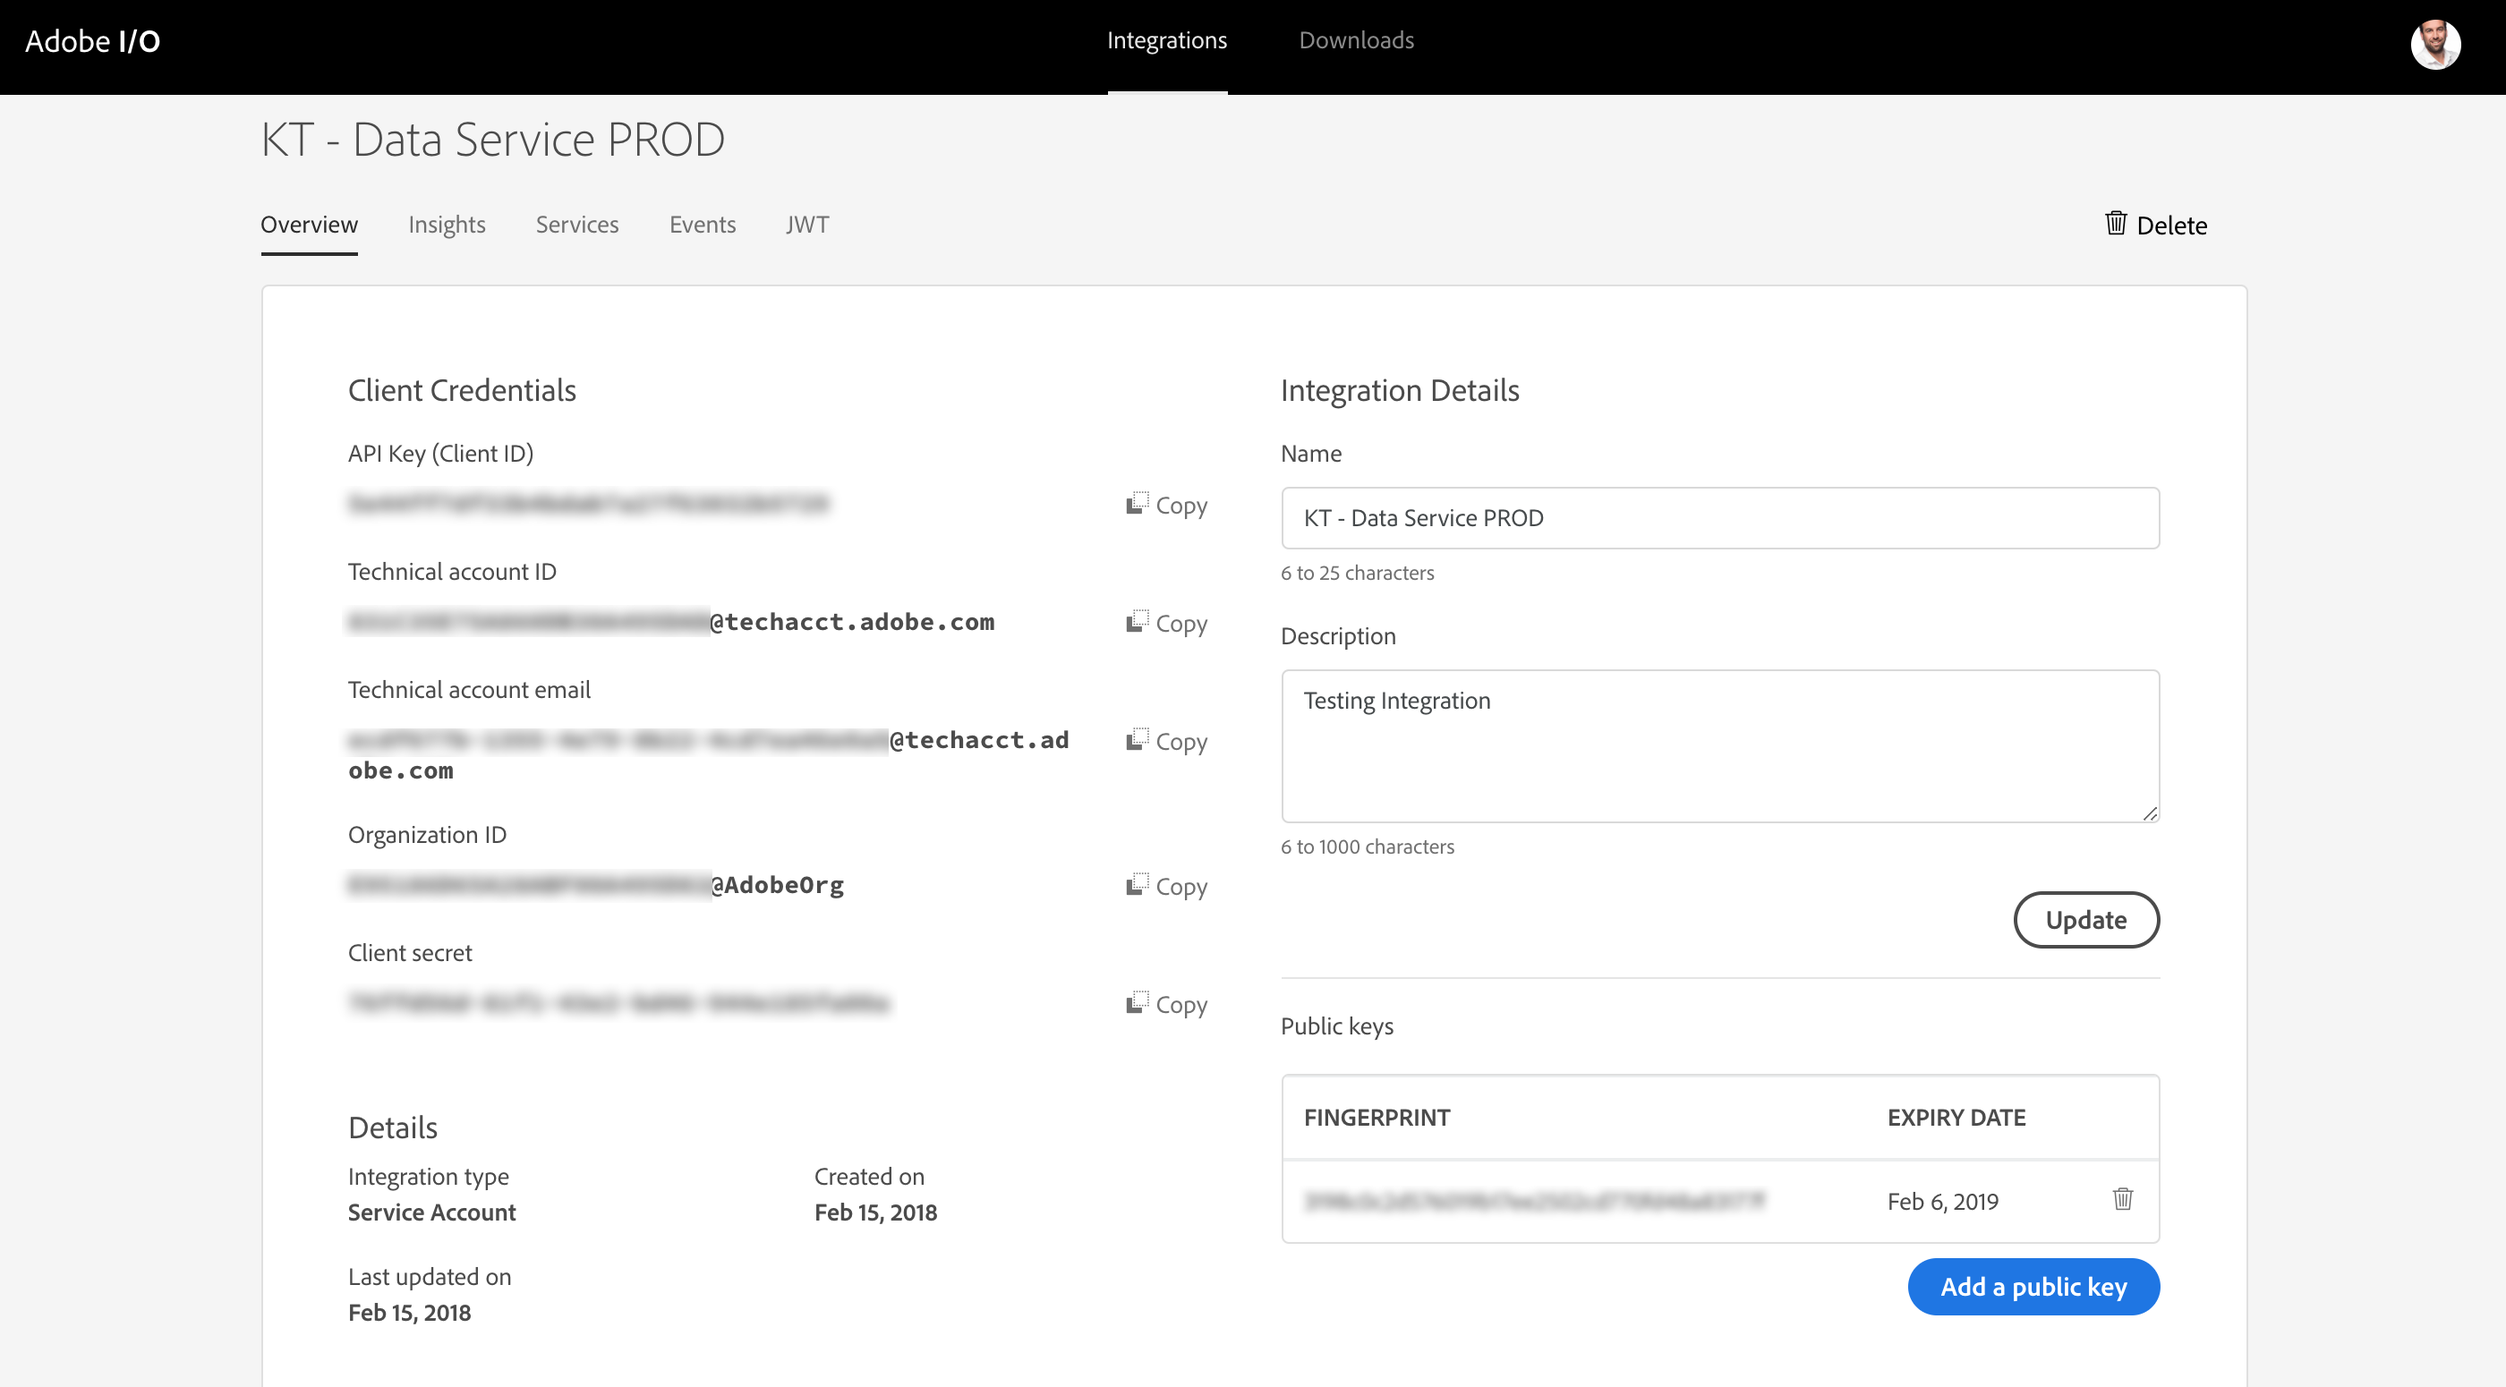
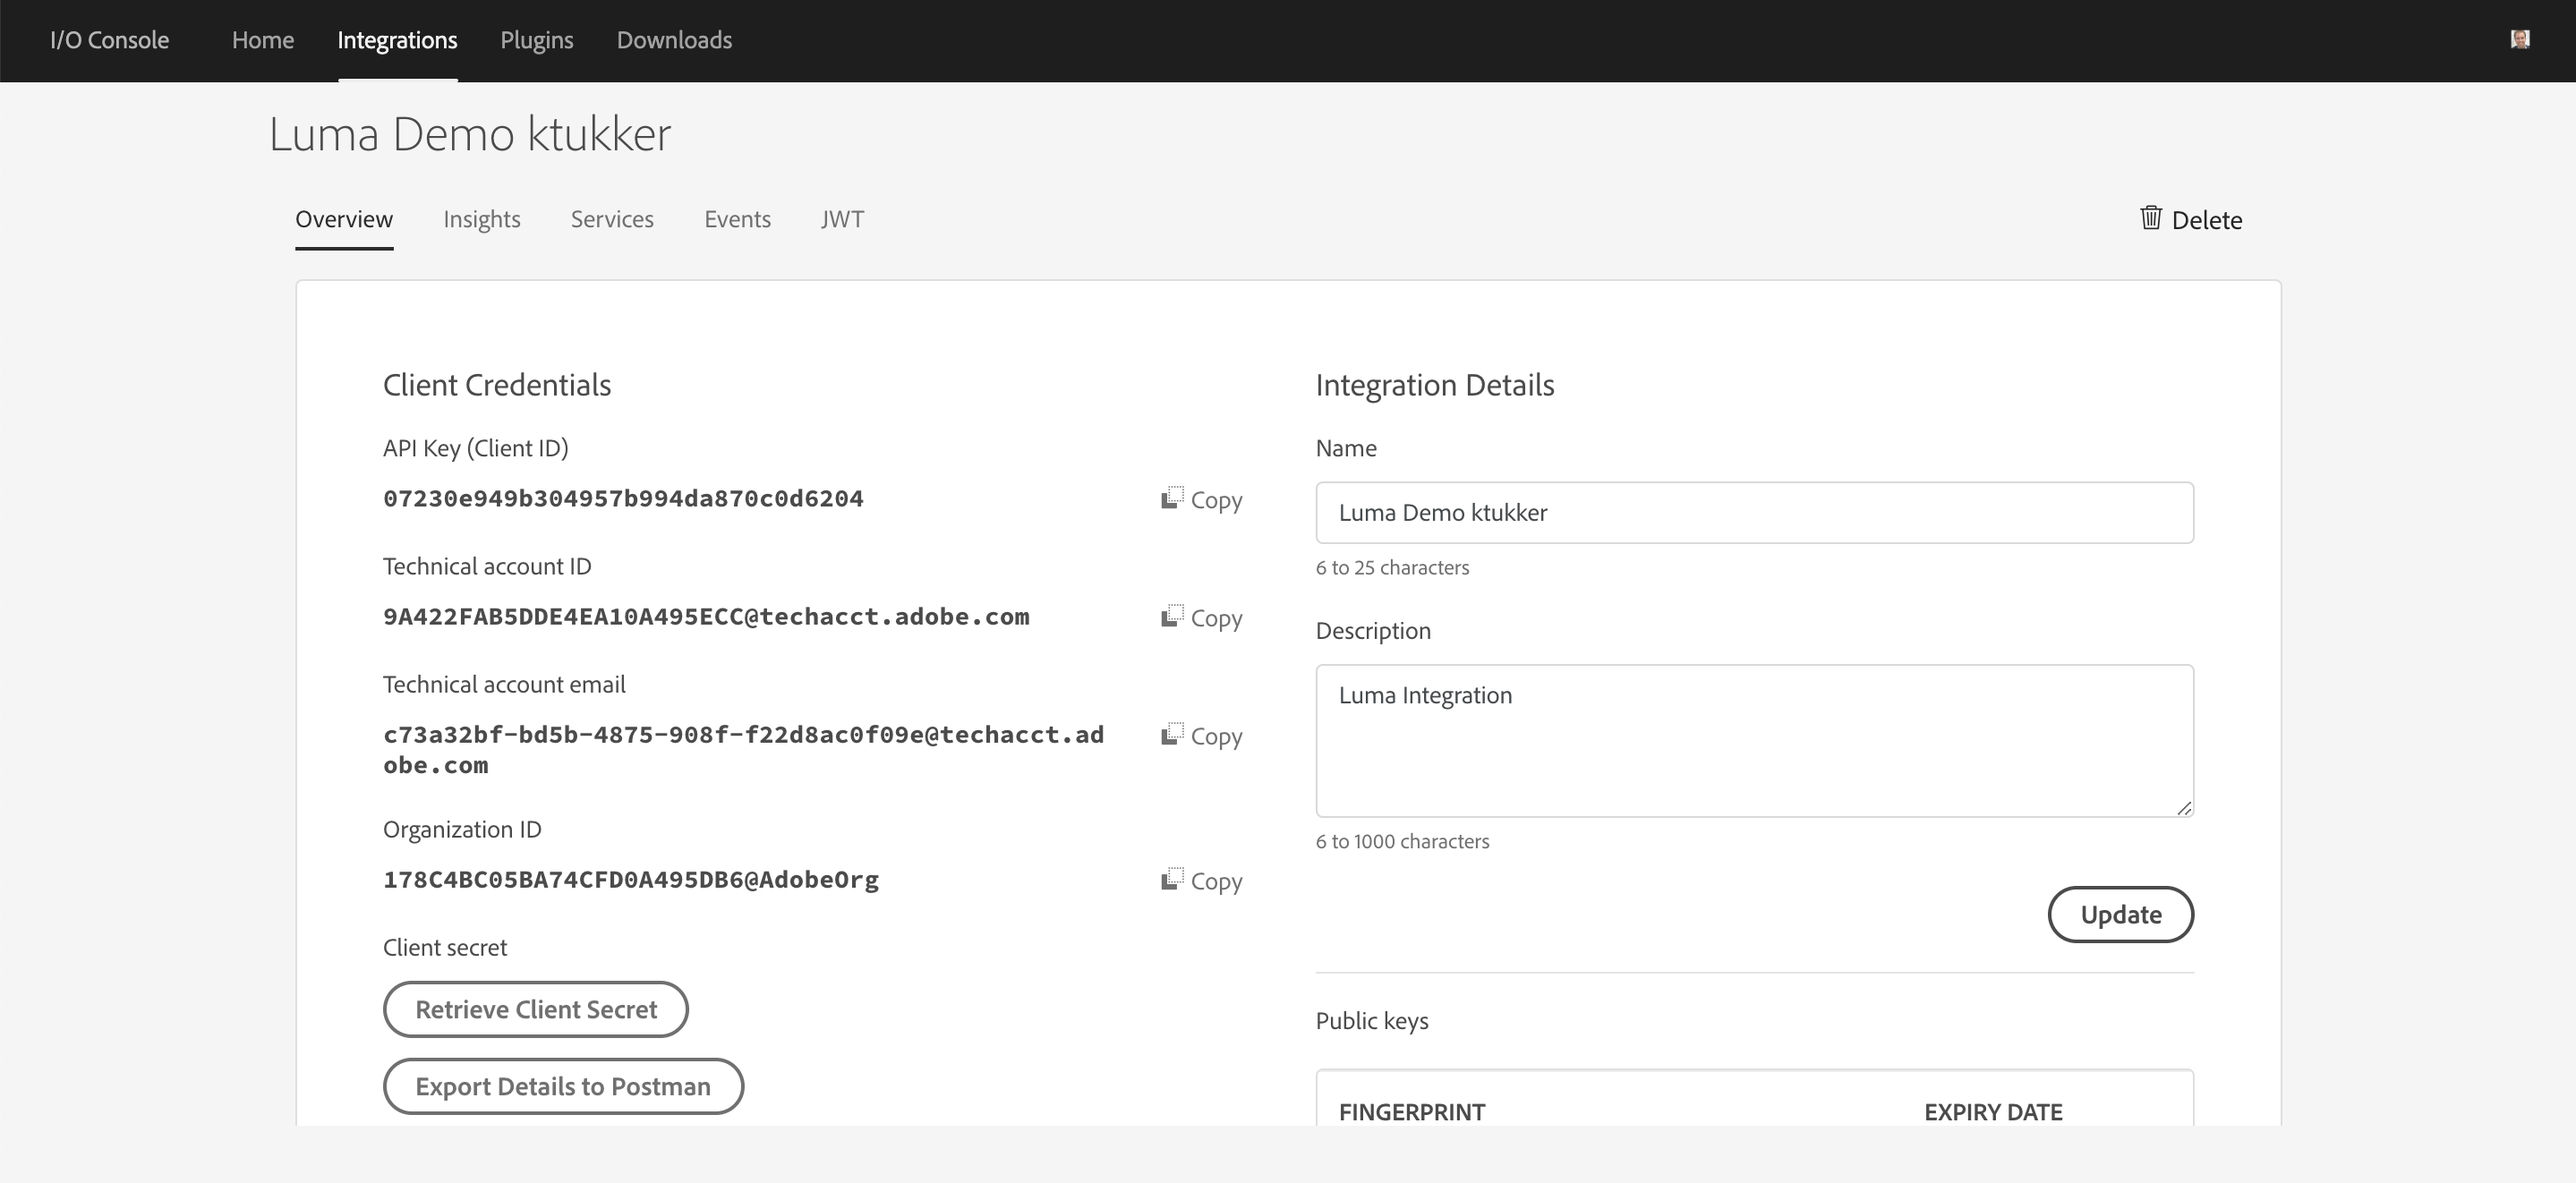
I/O Console standard var
Update article to match IO Console standard vars and pre-configured download of Postman Environment

diff --git a/HOWTO.md b/HOWTO.md
@@ -1,14 +1,18 @@
 # Using Postman for JWT authentication on Adobe I/O
 
+
+
 ## Introduction
 
-Working on the Experience Platform team, I am responsible for the API First strategy and availability of our APIs to Adobe and third party developers. We are using the Adobe I/O Gateway to provide developers access to these platform APIs. For authentication for third party developers, Adobe I/O is using an JWT workflow. Frequently I am testing APIs in [Postman](https://www.getpostman.com/) and I was looking for a way to execute the full authentication flow, including the generation of JWT request, signed with SHA-256. The [Adobe I/O Console](https://console.adobe.io/) allows you to generate a new JWT token, but I was looking to do everything inside of Postman. Merely there was not a complete recipe available to do this, so I rolled up my sleeves, Googled and Stackoverflowed my way through the web to put together the approach documented in this article. This article was originally written for the [Adobe I/O Blog, hosted on Medium](https://medium.com/adobe-io/using-postman-for-jwt-authentication-on-adobe-i-o-7573428ffe7f).
+Working on the Adobe Experience Platform team, I am responsible for the API First strategy and availability of our APIs to Adobe and third party developers. We are using the Adobe I/O Gateway to provide developers access to these platform APIs. For authentication for third party developers, Adobe I/O is using an JWT workflow. Frequently I am testing APIs in [Postman](https://www.getpostman.com/) and I was looking for a way to execute the full authentication flow, including the generation of JWT request, signed with SHA-256. The [Adobe I/O Console](https://console.adobe.io/) allows you to generate a new JWT token, but I was looking to do everything inside of Postman. Merely there was not a complete recipe available to do this, so I rolled up my sleeves, Googled and Stackoverflowed my way through the web to put together the approach documented in this article. This article was originally written for the [Adobe I/O Blog, hosted on Medium](https://medium.com/adobe-io/using-postman-for-jwt-authentication-on-adobe-i-o-7573428ffe7f).
 
 ## Setup I/O Integration
 
 To integrate with Adobe solutions, you can find all related information and documentation on the [adobe.io](http://www.adobe.io) website. In this case we'll be using the service-to-service pattern (using JWT). This requires to setup a new integration using [Adobe I/O Console](https://console.adobe.io/). The steps to setup a new integration can be found [here](https://www.adobe.io/apis/cloudplatform/console/authentication/gettingstarted.html) or [here](https://www.adobe.io/apis/experienceplatform/home/tutorials/alltutorials.html#!api-specification/markdown/narrative/tutorials/authenticate_to_acp_tutorial/authenticate_to_acp_tutorial.md).
 Once your integration is setup, you can use the details inside of Postman. In my case, I configured an integration to call the APIs for [Adobe Experience Platform](https://www.adobe.io/apis/experienceplatform/home.html) and the screenshot with the results are below. I will use the details listed on this screen later.
 ![I/O integration details](https://github.com/ktukker/adobe.io-jwt-postman/raw/master/images/io_integration_details.png)
+
+Update: In Adobe I/O Console, there is now acapability to directly download your Postman Environment. This removes extensive copy-paste operations between I/O Console and Postman. Go ahead and click the button to download the Postman Environment.
 
 ## Downloading and configuring Postman
 
@@ -25,19 +29,20 @@ After importing the collection, import the pre-configured environment template. 
 You are now ready to configure your environment based on the settings provided in IO Console.
 
 ## Setting up environments
+Update: this part has become a lot easier with the "download Environment" button that is now available in I/O Console. Go ahead, Download the environment file. The only filed you have to populate additonally is the `PRIVATE_KEY` field. This field contains your `private.key` generated with openssl earlier. Once you have done that, you can skip and move to the next header below.
 
 The Environments feature of Postman allows you to efficiently switch between multiple pre-configured environments. The [environment template](https://github.com/ktukker/adobe.io-jwt-postman/raw/master/postman/environments/JWT%20-%20Template.postman_environment.json) has pre-configured variable names that need to be populated with the correct values found in the I/O Console screen (see above).
 
 - Copy your values into the pre-configured template
 
-The value for `meta_scope` might be more challenging to find. This setting is different per solution / product that you integrate with. You can find this in the I/O Console for your created integration under the "JWT" tab. See highlighted element in the screenshot below.
+The value for `META_SCOPE` might be more challenging to find. This setting is different per solution / product that you integrate with. You can find this in the I/O Console for your created integration under the "JWT" tab. See highlighted element in the screenshot below.
 ![Imported Postman Collection](https://github.com/ktukker/adobe.io-jwt-postman/raw/master/images/where_to_find_the_metascope.png)
-In this case the `meta_scope` is `ent_dataservices_sdk`. If you have created an integration that is bound to multiple Adobe solutions, you will see multiple entries with different `meta_scope` values defined. In this case, add all the meta_scopes to the `meta_scope`, separated by a comma (`,`). For example `ent_dataservices_sdk,ent_reactor_sdk`.
+In this case the `META_SCOPE` is `ent_dataservices_sdk`. If you have created an integration that is bound to multiple Adobe solutions, you will see multiple entries with different `META_SCOPE` values defined. In this case, add all the meta_scopes to the `META_SCOPE`, separated by a comma (`,`). For example `ent_dataservices_sdk,ent_reactor_sdk`.
 
 After configuring your template, it will look like this:
 ![Imported Postman Collection](https://github.com/ktukker/adobe.io-jwt-postman/raw/master/images/postman_environment_example.png)
 
-Note: The `secret` variable contains the full text of the private key that you generated for the selected integration. Copy and past it into the field including the header (`-----BEGIN RSA PRIVATE KEY------`) and footer.
+Note: The `PRIVATE_KEY` variable contains the full text of the private key that you generated for the selected integration. Copy and past it into the field including the header (`-----BEGIN RSA PRIVATE KEY------`) and footer.
 
 ## Bootstrapping the authentication process
 
@@ -86,19 +91,19 @@ Based on the environment variables for the current environment, the JWT payload 
 var data = {
 	"exp": Math.round(87000 + Date.now()/1000),
 	"iss": postman.getEnvironmentVariable("IMS_ORG"),
-	"sub": postman.getEnvironmentVariable("techacct"),
+	"sub": postman.getEnvironmentVariable("TECHNICAL_ACCOUNT_ID"),
 	"aud": "https://ims-na1.adobelogin.com/c/"+postman.getEnvironmentVariable("API_KEY")
 };
 
 var meta_scope = postman.getEnvironmentVariable("IMS")+"/s/"+
-                 postman.getEnvironmentVariable("meta_scope");
+                 postman.getEnvironmentVariable("META_SCOPE");
 data[meta_scope] = true;
 ```
 
 This payload needs to be signed using the crypto library and the private key that is stored in the environment variable. The actual encryption code was conveniently published on the [jsrsasign wiki](https://github.com/kjur/jsrsasign/wiki/Tutorial-for-JWT-generation).
 
 ```
-var secret = postman.getEnvironmentVariable("secret");
+var secret = postman.getEnvironmentVariable("PRIVATE_KEY");
 
 var sHeader = JSON.stringify(header);
 var sPayload = JSON.stringify(data);
@@ -141,3 +146,6 @@ Left as an exercise to the reader
 ## Conclusion
 
 I hope you enjoyed this article and will be using Postman a lot for JWT based integration with Adobe I/O. With this script, you won't be needed a separate command line utility to generate and encrypt your JWT token or go to the Adobe I/O Console to generate one every time you need one.
+
+## Revisions
+2018-11-27 : Update article to reflect standard naming conventions in Adobe I/O Console generated Postman environments.
